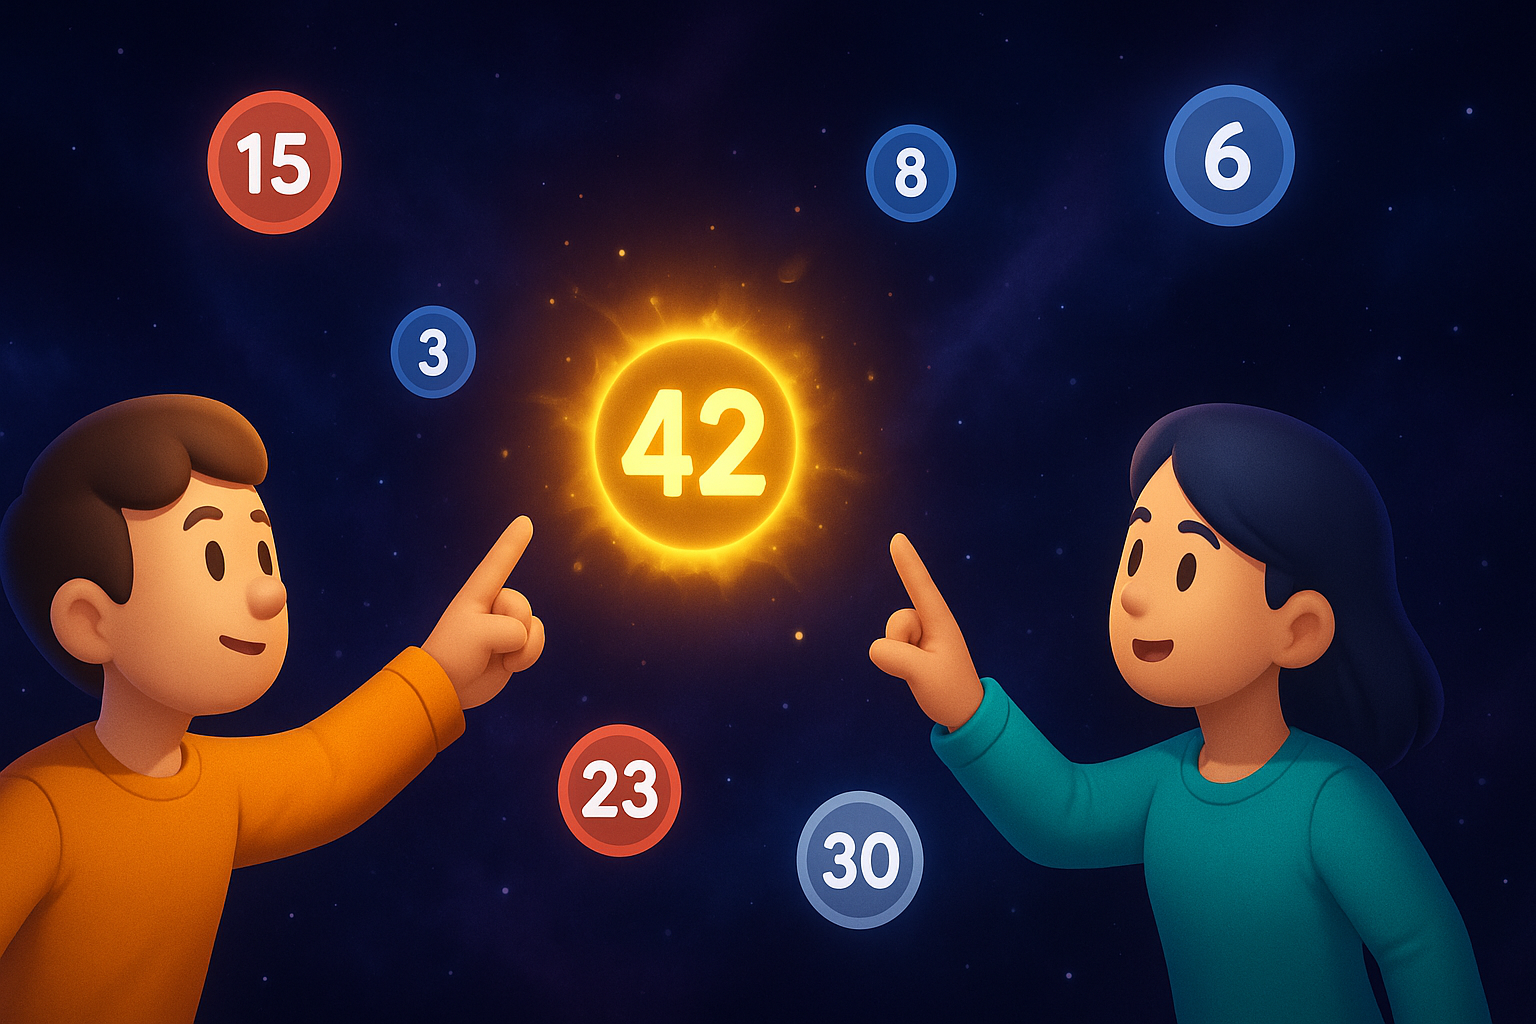
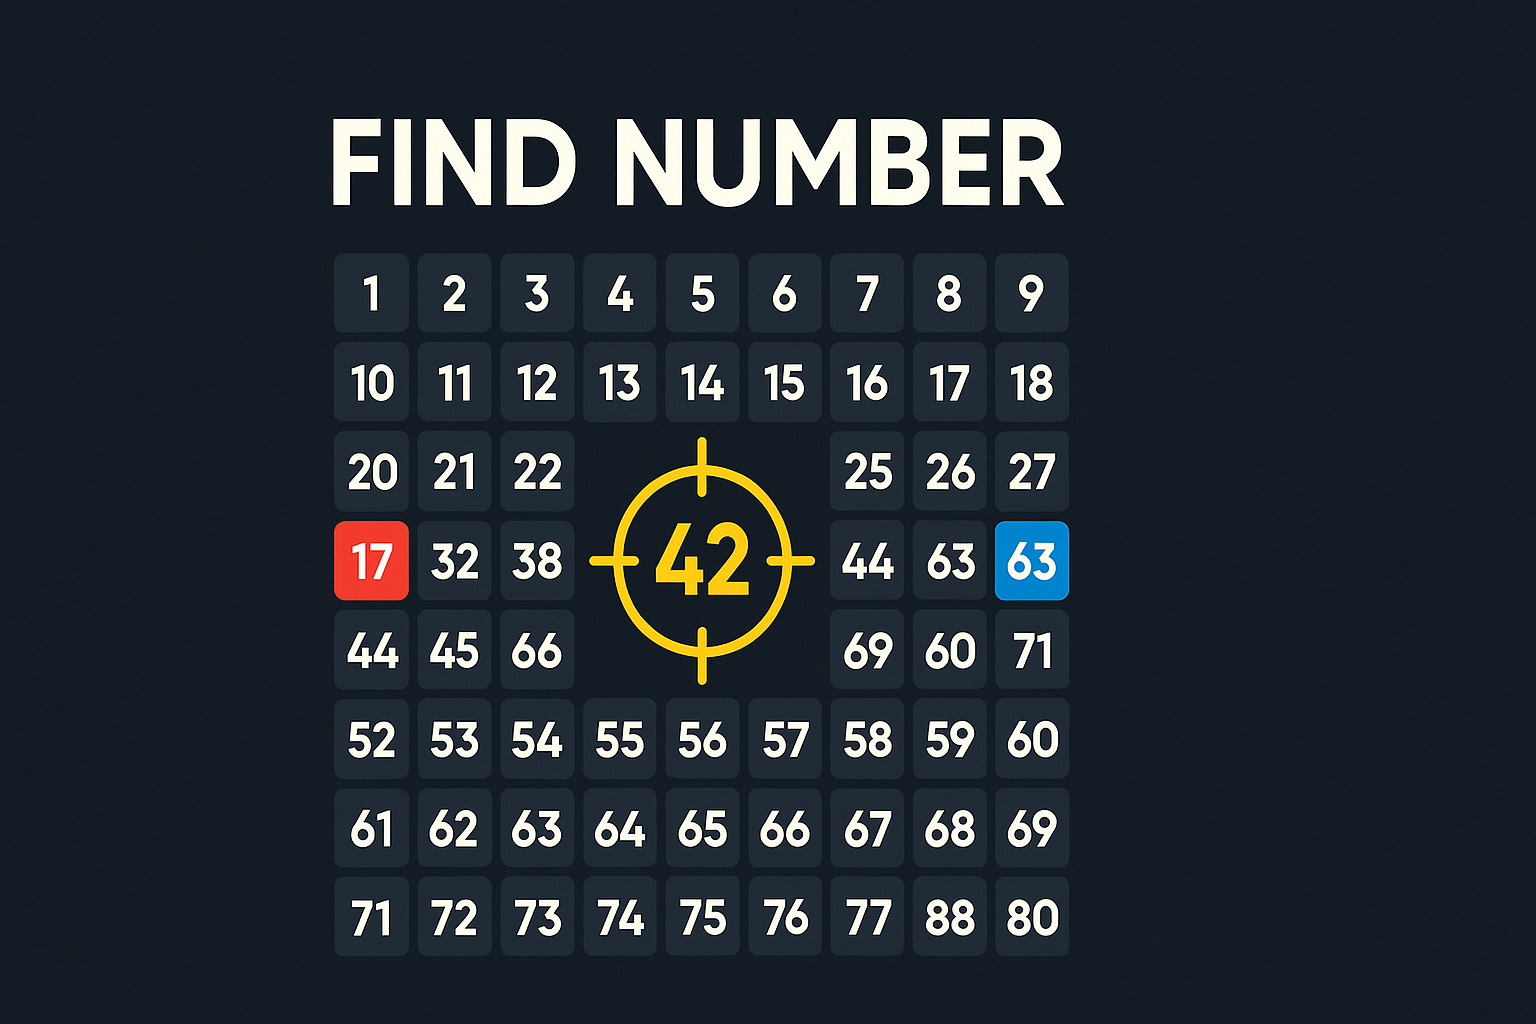
docs: refresh README — drop 3D copy, add bot AI section, screenshots gallery, badges

diff --git a/README.md b/README.md
@@ -1,36 +1,65 @@
+<div align="center">
+
+<img src="docs/images/hero.png" alt="Find Number — race the target" width="720" />
+
 # Find Number
 
-<p align="center">
-  <img src="docs/images/hero.png" alt="Find Number — race to tap the glowing number" width="720" />
-</p>
+**1v1 race game · tìm số trong grid · mobile-first PWA**
 
-> Đua tốc độ tìm số trong vũ trụ 3D. Mở link → vào phòng → ai bấm đúng số trước thắng.
+[![Play live](https://img.shields.io/badge/▶_Play_Now-find--number.pages.dev-FCD34D?style=for-the-badge)](https://find-number.pages.dev)
+[![CI](https://img.shields.io/github/actions/workflow/status/tvtdev94/find-number/pipeline.yml?branch=main&style=flat-square&label=pipeline)](https://github.com/tvtdev94/find-number/actions)
+[![Stack](https://img.shields.io/badge/stack-CF_Workers_+_DO_+_D1-F38020?style=flat-square&logo=cloudflare)](https://workers.cloudflare.com)
+[![Frontend](https://img.shields.io/badge/frontend-React_+_Vite_+_PWA-61DAFB?style=flat-square&logo=react)](https://vitejs.dev)
 
-🎮 **Chơi ngay:** https://find-number.pages.dev
+</div>
 
-<p align="center">
-  <img src="docs/images/logo.png" alt="logo" width="120" />
-</p>
+---
 
-## Chơi sao?
+> Mở link → vào phòng → server tung số ngẫu nhiên → ai bấm đúng trước thắng vòng đó. **Mỗi vòng grid xáo lại** để bạn không nhớ vị trí mà phải scan thật.
 
-1. Vào trang chủ, gõ nickname.
-2. **Create Room** để mời bạn (gửi link), hoặc **Quick Match** để ghép ngẫu nhiên.
-3. Mỗi vòng, banner hiện số mục tiêu — ai chạm đúng quả số đó trước, thắng vòng đó.
-4. 10 vòng, người thắng nhiều vòng hơn thắng cả trận.
-5. Số đã tìm sẽ bị khoanh màu (đỏ P1 / xanh P2) cho cả 2 cùng thấy.
+## ✨ Có gì hay
+
+- 🎯 **Grid 10×10** xáo trộn mỗi vòng — bắt mắt nhưng phải tinh
+- 👥 **1v1 race** qua link, hoặc **Quick Match** ghép ngẫu nhiên
+- 🤖 **Bot AI fallback** — không tìm được người trong 60s? Chiến với máy luôn (bot khó vừa, ~50% win rate)
+- 🏆 **Leaderboard** Tuần / Tháng / Năm / All time, podium top 3
+- 📱 **PWA** — cài vào màn hình chính, chơi offline lobby
+- ⚡ **Race chuẩn server-side** — không cheat được (server arbitrate first-click)
+- 🔌 **Reconnect grace 10s** — rớt mạng vẫn quay lại được
+- 🎨 **Bundle 72KB gzip** — tải nhẹ, mở 1 phát ăn liền
+
+## 🎮 Cách chơi
+
+1. Vào trang chủ, gõ nickname
+2. **Create Room** → share link với bạn, hoặc **Quick Match** → ghép random / vào trận với bot
+3. Banner trên cùng hiện số mục tiêu (vd. `FIND 46`)
+4. Tap đúng quả số đó trên grid — ai nhanh hơn được điểm
+5. Best of 10 vòng. Số đã tìm bị tô màu (🔴 P1 / 🔵 P2)
 
 > Không cần đăng nhập. Mở web là chơi.
 
-## Có gì hay
+## 📸 Screenshots
 
-- **3D galaxy scene** — 100 quả số bay trong không gian, xoay quanh được.
-- **Mobile-first PWA** — cài vào màn hình chính như app.
-- **Race chuẩn** — server quyết người bấm trước, không cheat được.
-- **Bảng xếp hạng** — Tuần / Tháng / Năm / Mọi thời điểm.
-- **Reconnect** — rớt mạng 10s vẫn quay lại được.
+<table>
+  <tr>
+    <td align="center"><img src="docs/images/mobile-landing.png" width="200" alt="Landing"/><br/><sub>Landing</sub></td>
+    <td align="center"><img src="docs/images/mobile-lobby.png" width="200" alt="Lobby"/><br/><sub>Lobby</sub></td>
+    <td align="center"><img src="docs/images/mobile-game.png" width="200" alt="In-game"/><br/><sub>In-game</sub></td>
+    <td align="center"><img src="docs/images/mobile-leaderboard.png" width="200" alt="Leaderboard"/><br/><sub>Leaderboard</sub></td>
+  </tr>
+</table>
 
-## Chạy local
+## 🛠 Stack
+
+| Layer | Tech |
+|---|---|
+| Frontend | Vite + React 18 + TypeScript + Zustand + Tailwind + vite-plugin-pwa |
+| Backend | Cloudflare Workers + Hono + Durable Objects (WS) + D1 (SQLite) + KV |
+| Routing | wouter (1KB) |
+| Tests | Vitest (unit) + Playwright (E2E) |
+| CI/CD | GitHub Actions → Cloudflare auto-deploy |
+
+## 🚀 Chạy local
 
 ```bash
 pnpm install
@@ -40,15 +69,45 @@ pnpm dev
 
 Mở http://localhost:5173
 
-## Deploy
-
-Push lên `main` → GitHub Actions tự deploy CF Worker + Pages.
-Cần secrets: `CLOUDFLARE_API_TOKEN`, `CLOUDFLARE_ACCOUNT_ID`.
-
-## Cấu trúc
+## 📦 Cấu trúc
 
 ```
-apps/web/        — Vite + R3F PWA
-apps/worker/     — CF Worker (Hono + Durable Objects + D1)
-packages/shared/ — protocol types dùng chung
+find-number/
+├── apps/
+│   ├── web/              Vite PWA (React + Tailwind)
+│   └── worker/           CF Worker (Hono + DO + D1)
+├── packages/
+│   └── shared/           Protocol types dùng chung
+├── tests/
+│   ├── e2e/              Playwright
+│   └── visual/           Screenshot helpers
+├── plans/                Phase plans + reports
+└── docs/                 Hình ảnh, journals
 ```
+
+## 🔄 Deploy
+
+Push commit lên `main` → GitHub Actions chạy:
+1. **Test** — typecheck + 24 unit tests + build
+2. **E2E** — Playwright trên Chromium headless
+3. **Deploy** — D1 migrate + Worker deploy + Pages deploy
+
+Cần GitHub secrets: `CLOUDFLARE_API_TOKEN`, `CLOUDFLARE_ACCOUNT_ID`
+
+## 🤖 Bot AI
+
+Khi Quick Match queue empty:
+- Sau **5s** → button "🤖 Chơi với máy ngay" hiện ra
+- Sau **60s** → tự động fall back vào trận với bot
+
+Bot reaction: **1.8–3.5s** delay + **25% miss rate** → fair vs trung bình human (~50% win rate). Bot match **không lên leaderboard**.
+
+## 📜 License
+
+MIT
+
+---
+
+<div align="center">
+<sub>Made with Cloudflare Workers · React · Tailwind · ❤</sub>
+</div>
